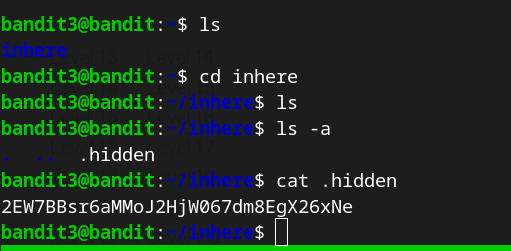
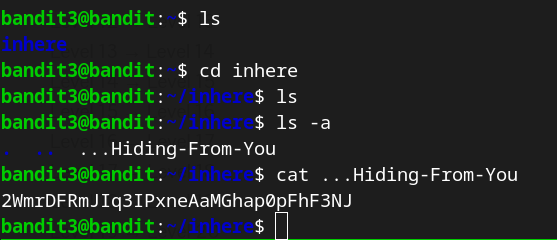
Update passwords for first 5 levels

diff --git a/Bandit.md b/Bandit.md
@@ -5,7 +5,7 @@ To display the content of the file, run the following command: **cat readme**
 ![bandit00](./Img/Bandit/bandit00.png)  
 
     User: bandit1
-    Password: NH2SXQwcBdpmTEzi3bvBHMM9H66vVXjL  
+    Password: ZjLjTmM6FvvyRnrb2rfNWOZOTa6ip5If
       
 -------------------------------------------------------------------
 ### Level 1 &rarr; Level 2  
@@ -15,7 +15,7 @@ we need to specify the full path to it: **cat ./-**
 ![bandit01](./Img/Bandit/bandit01.png)  
     
     User: bandit2  
-    Password: rRGizSaX8Mk1RTb1CNQoXTcYZWU6lgzi  
+    Password: 263JGJPfgU6LtdEvgfWU1XP5yac29mFx
       
 -------------------------------------------------------------------
 ### Level 2 &rarr; Level 3
@@ -25,31 +25,31 @@ of the file, we need to escape the spaces using the back-slach escape character:
 ![bandit02](./Img/Bandit/bandit02.png)  
 
     User: bandit3  
-    Password: aBZ0W5EmUfAf7kHTQeOwd8bauFJ2lAiG  
+    Password: MNk8KNH3Usiio41PRUEoDFPqfxLPlSmx  
 
 -------------------------------------------------------------------
 ### Level 3 &rarr; Level 4
 As indicated on the website, the password is stored in a hidden file in the **inhere** directory, so I performed the following actions:  
 - Change location to the **inhere** directory: **cd inhere**  
 - Display directory content, including hidden directories and files: **ls -a**  
-- Display content of the hidden file: **cat .hidden**  
+- Display content of the hidden file: **cat ...Hiding-From-You**  
 
 ![bandit03](./Img/Bandit/bandit03.png)  
 
     User: bandit4
-    Password: 2EW7BBsr6aMMoJ2HjW067dm8EgX26xNe  
+    Password: 2WmrDFRmJIq3IPxneAaMGhap0pFhF3NJ
 
 -------------------------------------------------------------------
 ### Level 4 &rarr; Level 5
 Once connected to **bandit4**, the password is stored in the only human-readable file in the **inhere** directory (as mentioned
 on the website). I changed the location to **inhere** directory and listed the contents of the directory, I see that there are
 many files starting with **-file** followed by a number, in order to identify the human-readable file, I executed this command
-which tells me the type of each file: <strong>file ./*</strong> .I can see that the file **-file07** is the right one, so I printed its contents.
+which tells me the type of each file: <strong>file ./*</strong> . I can see that the file **-file07** is the right one, so I printed its contents.
   
 ![bandit04](./Img/Bandit/bandit04.png)  
 
     User: bandit5
-    Password: lrIWWI6bB37kxfiCQZqUdOIYfr6eEeqR
+    Password: 4oQYVPkxZOOEOO5pTW81FB8j8lxXGUQw
   
 -------------------------------------------------------------------
 ### Level 5 &rarr; Level 6
@@ -67,7 +67,7 @@ Here are the steps I followed:
 ![bandit05](./Img/Bandit/bandit05.png)  
 
     User: bandit6
-    Password: P4L4vucdmLnm8I7Vl7jG1ApGSfjYKqJU
+    Password: HWasnPhtq9AVKe0dmk45nxy20cvUa6EG
   
 -------------------------------------------------------------------
 ### Level 6 &rarr; Level 7
@@ -95,7 +95,7 @@ I printed out the content of the file and piped the output to the **grep** comma
 
 ------------------------------------------------------------------
 ### Level 8 &rarr; Level 9
-The password in a file in the home directory named **data.txt**, the file contains many lines but the password is the only line of text that appears only once. I therefore sorted the file in ascending alphabetical order, then printed only the unique lines, obtaining an output of a single line containing the password:  
+The password is in a file in the home directory named **data.txt**, the file contains many lines but the password is the only line of text that appears only once. I therefore sorted the file in ascending alphabetical order, then printed only the unique lines, obtaining an output of a single line containing the password:  
   
 ![bandit8](/Img/Bandit/bandit08.png)
 
@@ -104,7 +104,7 @@ The password in a file in the home directory named **data.txt**, the file contai
   
 ------------------------------------------------------------------
 ### Level 9 &rarr; Level 10
-The password is located in the file **data.txt**, which doesn't contain text but data, as you can see by executing the following command: **file data.txt**, so we need to use the **strings** command to print all the printable characters in this file, then we need to grep the lines containing the password pattern "preceeded by several **=** characters", which means that the line containing the password contains several (2 or more) **=** characters followed by the password, the password is made up of numbers and letters (upper and lower case): **grep -E "={2,} ?[[:alnum]]"**  
+The password is located in the file **data.txt**, which doesn't contain text but data, as you can see by executing the following command: **file data.txt**, so we need to use the **strings** command to print all the printable characters in this file, then we need to grep the lines containing the password pattern ***preceeded by several **=** characters***, which means that the line containing the password contains several **=** characters (2 or more) followed by the actual password, it is made up of numbers and letters (upper and lower case): **grep -E "={2,} ?[[:alnum]]+"**  
   
 ![bandit9](/Img/Bandit/bandit09.png)  
   
